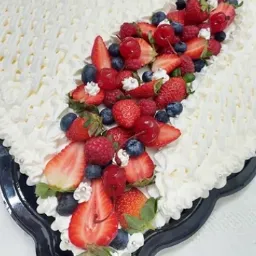
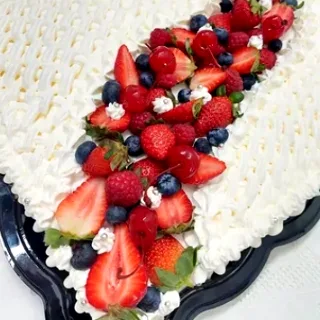
Foto nova do bolo Dona Sil e fotos padronizadas
- Bolo Dona Sil com a foto certa (frutas por cima e laço vermelho), em
  resolução maior para o destaque
- Todas as fotos dos bolos com o mesmo acerto de luz e cor (brilho
  esticado, branco do chantilly neutro e o mesmo reforço de cor) e a
  mesma moldura branca com sombra suave

Claude-Session: https://claude.ai/code/session_01Nxacinsa2VvSTUGivk8Cvc

diff --git a/index.html b/index.html
@@ -134,6 +134,8 @@ button{font:inherit;color:inherit}
 .thumb{position:relative;flex:none;width:64px;height:64px;border-radius:16px;background:#FBF1EE;display:flex;align-items:center;justify-content:center}
 .thumb svg.cake{width:60px;height:60px}
 .thumb img{width:100%;height:100%;object-fit:cover;border-radius:inherit;display:block}
+/* Fotos com a mesma moldura: borda branca e sombra suave */
+.thumb:has(img){background:#fff;box-shadow:0 0 0 2px #fff,0 4px 12px rgba(58,40,36,.16)}
 .thumb .seal{position:absolute;left:-12px;top:-12px;width:34px;height:34px}
 .hero .thumb{width:92px;height:92px;margin:-10px -4px -6px 0;border-radius:50%;background:rgba(255,255,255,.75);box-shadow:0 0 0 3px #fff,0 6px 16px rgba(179,71,95,.2)}
 .hero .thumb svg.cake{width:86px;height:86px}
